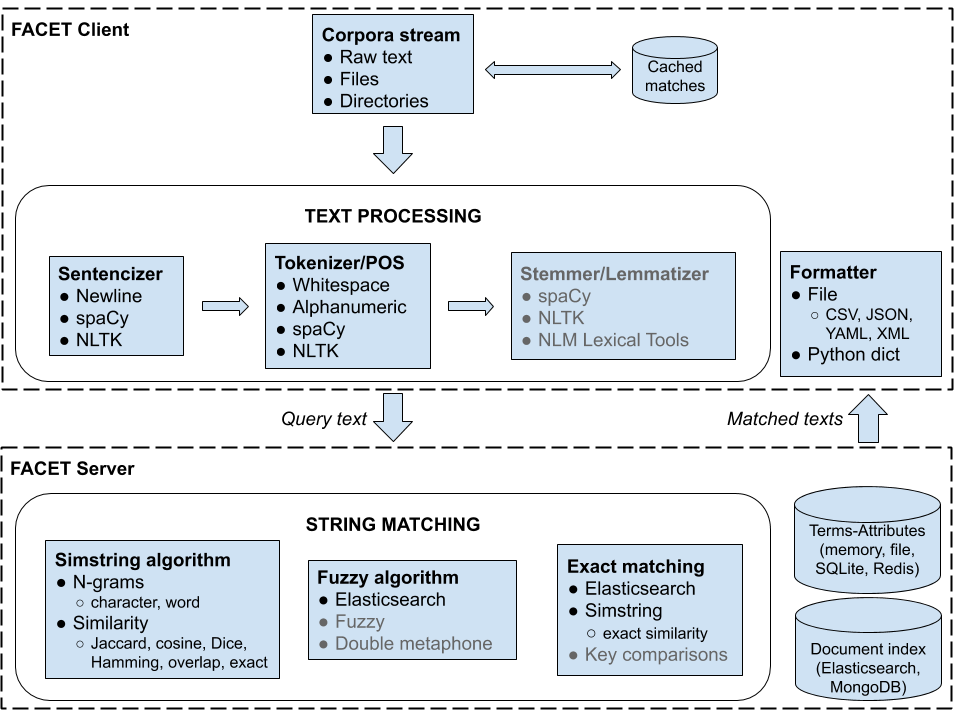
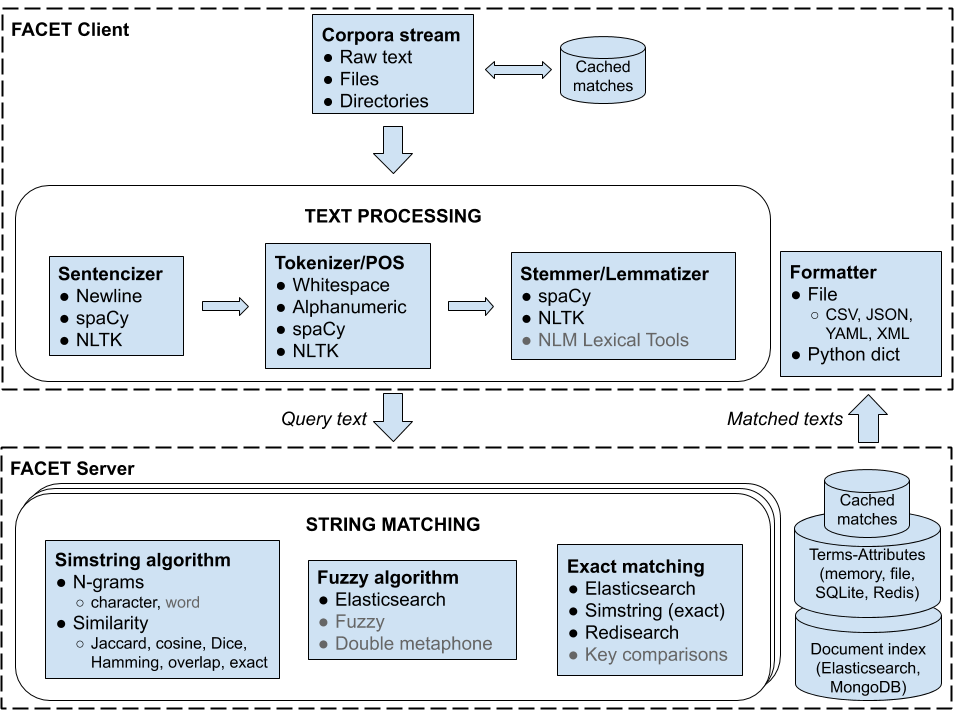
updated README (fig and perf)

diff --git a/README.rst b/README.rst
@@ -1,17 +1,3 @@
-.. .. image:: https://codecov.io/gh/kbrown42/quickerumls/branch/master/graph/badge.svg
-   :target: https://codecov.io/gh/edponce/quickerumls
-   :alt: Coverage Status
-
-.. .. image:: https://readthedocs.org/projects/quickerumls/badge/?version=latest
-   :target: https://quickerumls.readthedocs.io/en/latest/?badge=latest
-   :alt: Documentation Status
-
-.. .. image:: https://img.shields.io/badge/license-MIT-blue.svg
-   :target: https://github.com/edponce/smarttimers/blob/master/LICENSE
-   :alt: License
-
-|
-
 FACET - Framework for Annotation and Concept Extraction in Text
 ===============================================================
 
@@ -34,10 +20,17 @@ Features
 * Easy to scale up, run locally, or containerize
 * Stores extracted annotations in serializable and/or human-readable formats
 
-.. .. figure:: figures/FACET.png
 .. figure:: doc/figures/FACET.png
    :scale: 70 %
    :alt: FACET client/server scheme
+
+   **Ideal FACET Structure:** Schematic of FACET presenting its components and their interactions. Many components provide multiple alternatives for its processing. FACET supports the client/server paradigm, where clients ingest text streams and apply NLP to extract tokens of interest (stopwords and a parts-of-speech tagger are used to filter out “unimportant” tokens. The tokens are sent to the server which matches the tokens against a set of preinstalled canonical terms. Candidate terms can be used to extract additional attributes from preinstalled tables. The candidate terms along with their corresponding attributes are sent to the client. FACET provides multiple formats for representing the matched results.
+
+.. figure:: doc/figures/FACET_curr.png
+   :scale: 70 %
+   :alt: FACET client/server scheme
+
+   **Current FACET Architecture:** Schematic of FACET presenting its components and their interactions. Client/server communication is performed via remote procedure calls (RPC). Clients load data and send it to the server for NLP.
 
 
 Setup and Installation
@@ -148,8 +141,21 @@ structure different database types can be used in the same installation.
 * Redis - medium performance.
 
 
-Performance
+PERFORMANCE
 ===========
+
+**Note:** We need a quality metric to compare experiments and determine good parameters.
+
+* total N-gram count
+* distribution of N-gram size
+* N-grams skipped
+* N-grams used
+* N-grams matched
+* number of documents
+
+
+Installation
+------------
 
 UMLS 2018-AA with selected semantic types: 4,532,193 concepts
 Semantic types: 1,782,484
@@ -166,7 +172,31 @@ Total time                   665.79
 ============================ ===========
 
 
-UMLS Related Tools
+Processing Throughput
+---------------------
+
+Performance of processing a collection of 100 documents (SynthNotes).  
+
+**Bottleneck:** Profiling indicated the bottleneck was the number of calls to the Simstring database (1066595 calls to database).  
+
+**Solution:** Use bulk database accesses. This requires extending the databases API and modifying the matching algorithm to operate on bulk operations.  
+
+**Status:** This improvement is still under development, and preliminary results indicate that probably up to an order of magnitude in performance can be gained.
+
+
+========== ============ ===================== ============== ===========
+Tokenizer  Walltime (s) Throughput (doc/sec)  Single doc (s) Matches (n)
+========== ============ ===================== ============== ===========
+alphanum   18.6         5.3                   0.19           666803
+spaCy      24.1         4.1                   0.24           715276
+spaCy-n    20.5         4.8                   0.20           524782
+spaCy-n/c  52.2         1.9                   0.52           337012
+whitespace 15.0         6.6                   0.15           445806
+NLTK       12.5         8                     0.13           340211
+========== ============ ===================== ============== ===========
+
+
+UMLS RELATED TOOLS
 ==================
 
 * QuickUMLS: https://github.com/Georgetown-IR-Lab/QuickUMLS
@@ -177,9 +207,11 @@ UMLS Related Tools
   * https://www.microsoft.com/en-us/research/wp-content/uploads/2016/02/tr-2001-108.pdf
 
 
-Coming Soon
+COMING SOON
 ===========
 
-Matchers with fuzzy string matching:
+* Bulk database accesses
+* New matchers string matching:
 
-* fuzzywuzzy
+  * fuzzywuzzy
+  * metaphone

diff --git a/doc/modules.rst b/doc/modules.rst
@@ -124,6 +124,9 @@ Serializer
 .. autoclass:: facet.PickleSerializer
     :members:
 
+.. autoclass:: facet.CloudpickleSerializer
+    :members:
+
 .. autoclass:: facet.StringSerializer
     :members:
 
@@ -167,6 +170,9 @@ Formatter
     :members:
 
 .. autoclass:: facet.PickleFormatter
+    :members:
+
+.. autoclass:: facet.CloudpickleFormatter
     :members:
 
 .. autoclass:: facet.CSVFormatter
